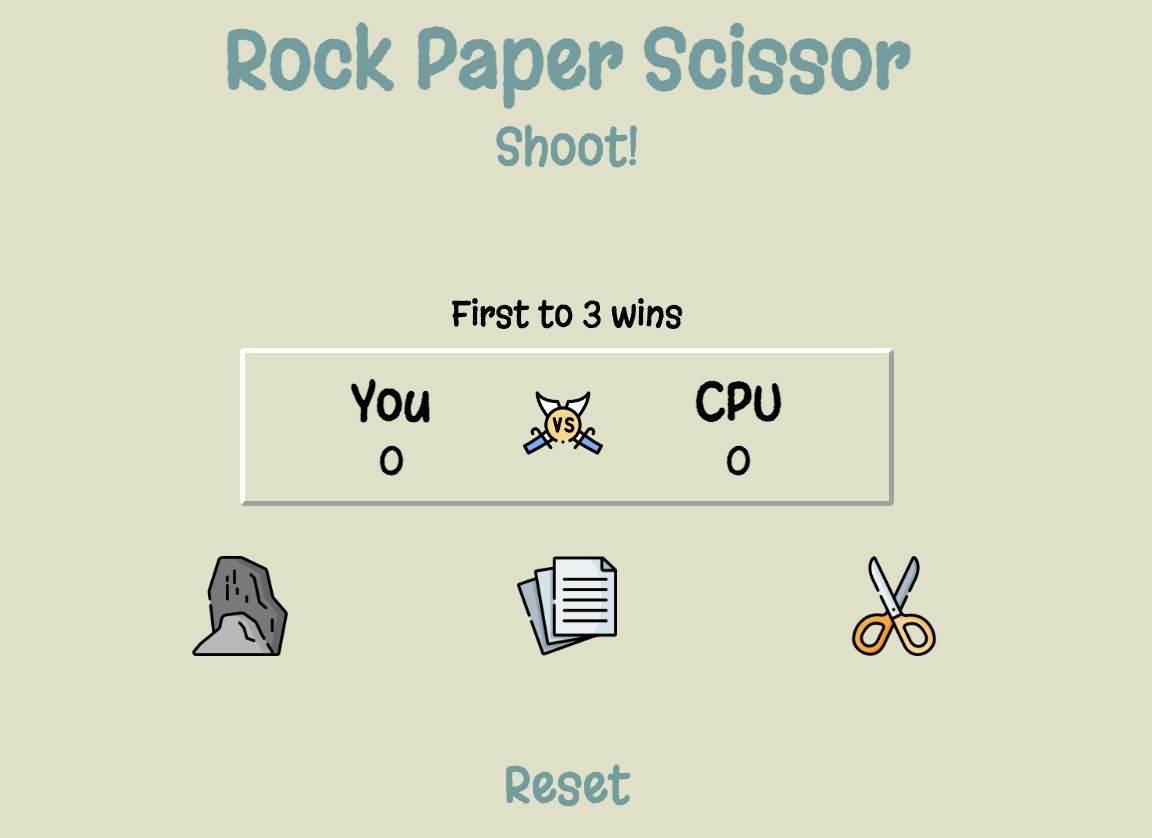
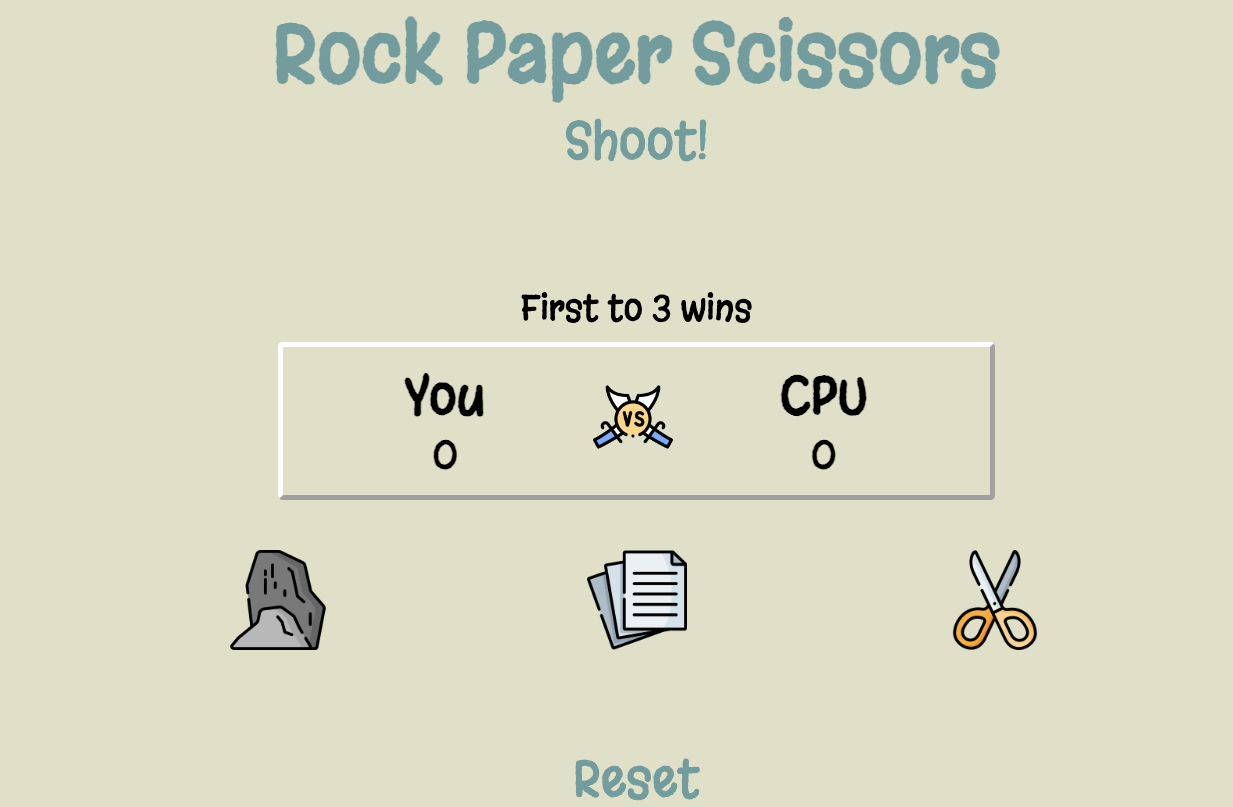
fixed image on readme

diff --git a/rps.js b/rps.js
@@ -1,3 +1,7 @@
+let playerScore = 0;
+let cpuScore = 0;
+let maxScore = 3;
+
 
 const getComputerChoice = () => {
   const RPS = ['rock', 'paper', 'scissors'];

diff --git a/index.html b/index.html
@@ -8,7 +8,7 @@
   </head>
   <body>
     <header>
-      <h1>Rock Paper Scissor</h1>
+      <h1>Rock Paper Scissors</h1>
       <p>Shoot!</p>
     </header>
 

diff --git a/index.css b/index.css
@@ -82,6 +82,10 @@ header > p {
     font-size: 25px;
   }
 
+  .goal {
+    font-size: 20px;
+  }
+
   .score {
     font-size: 10px;
   }

diff --git a/README.md b/README.md
@@ -1,5 +1,5 @@
 # Overview
-This is a Rock, Paper, Scissor game where the player competes against the computer and the first to reach 3 points wins the game. 
+This is a Rock, Paper, Scissors game where the player competes against the computer and the first to reach 3 points wins the game. 
 
 # Preview
 ![Alt text](/images/preview.png)
